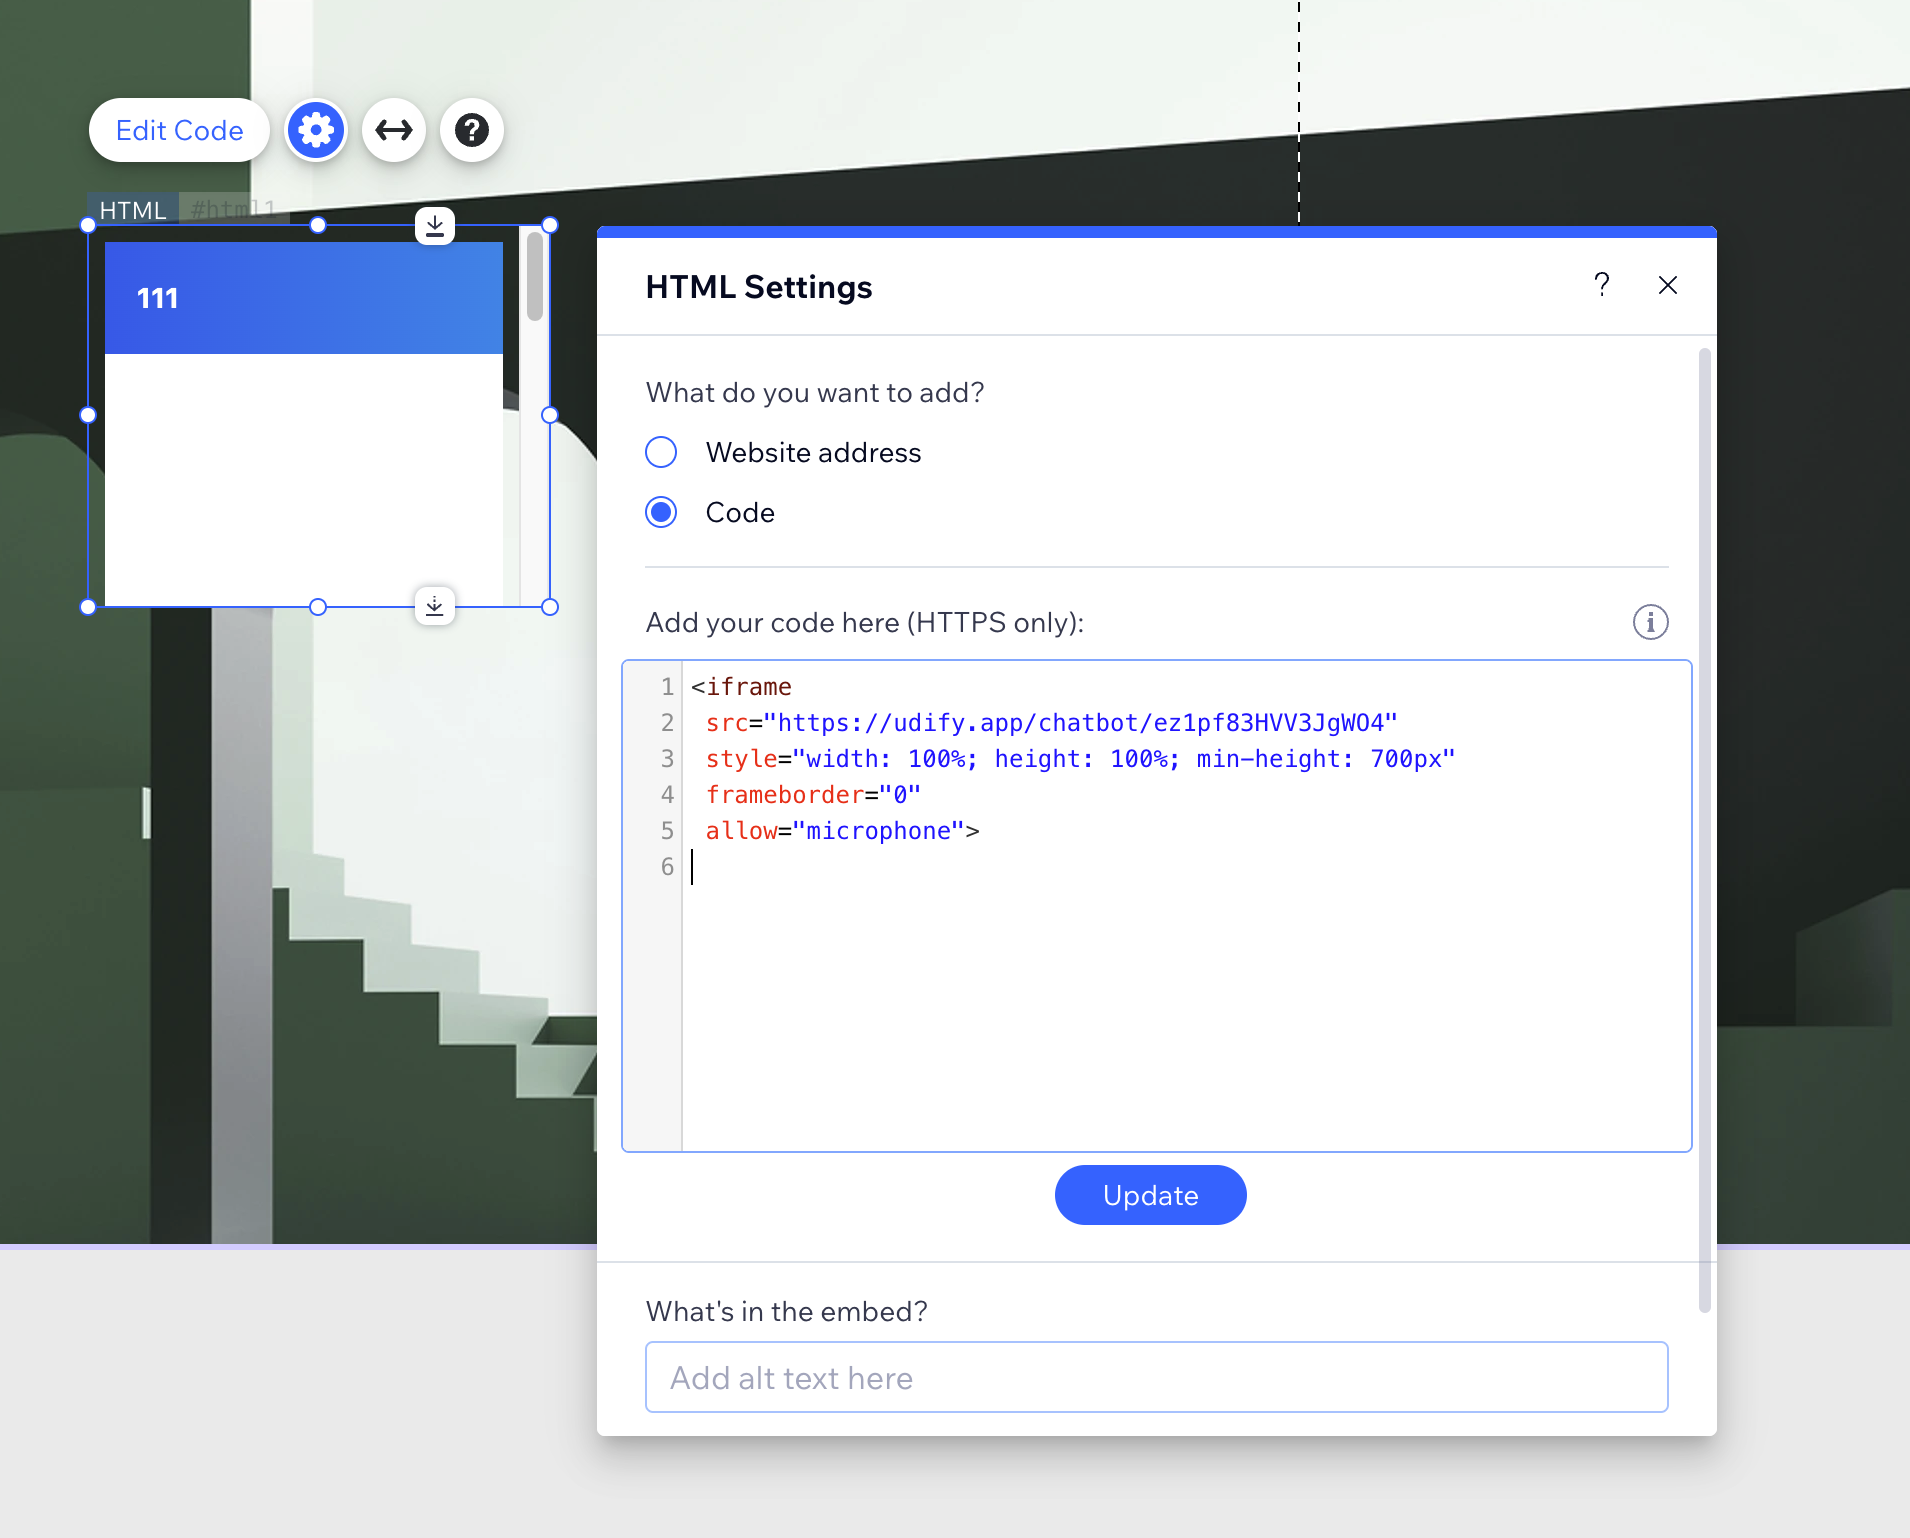
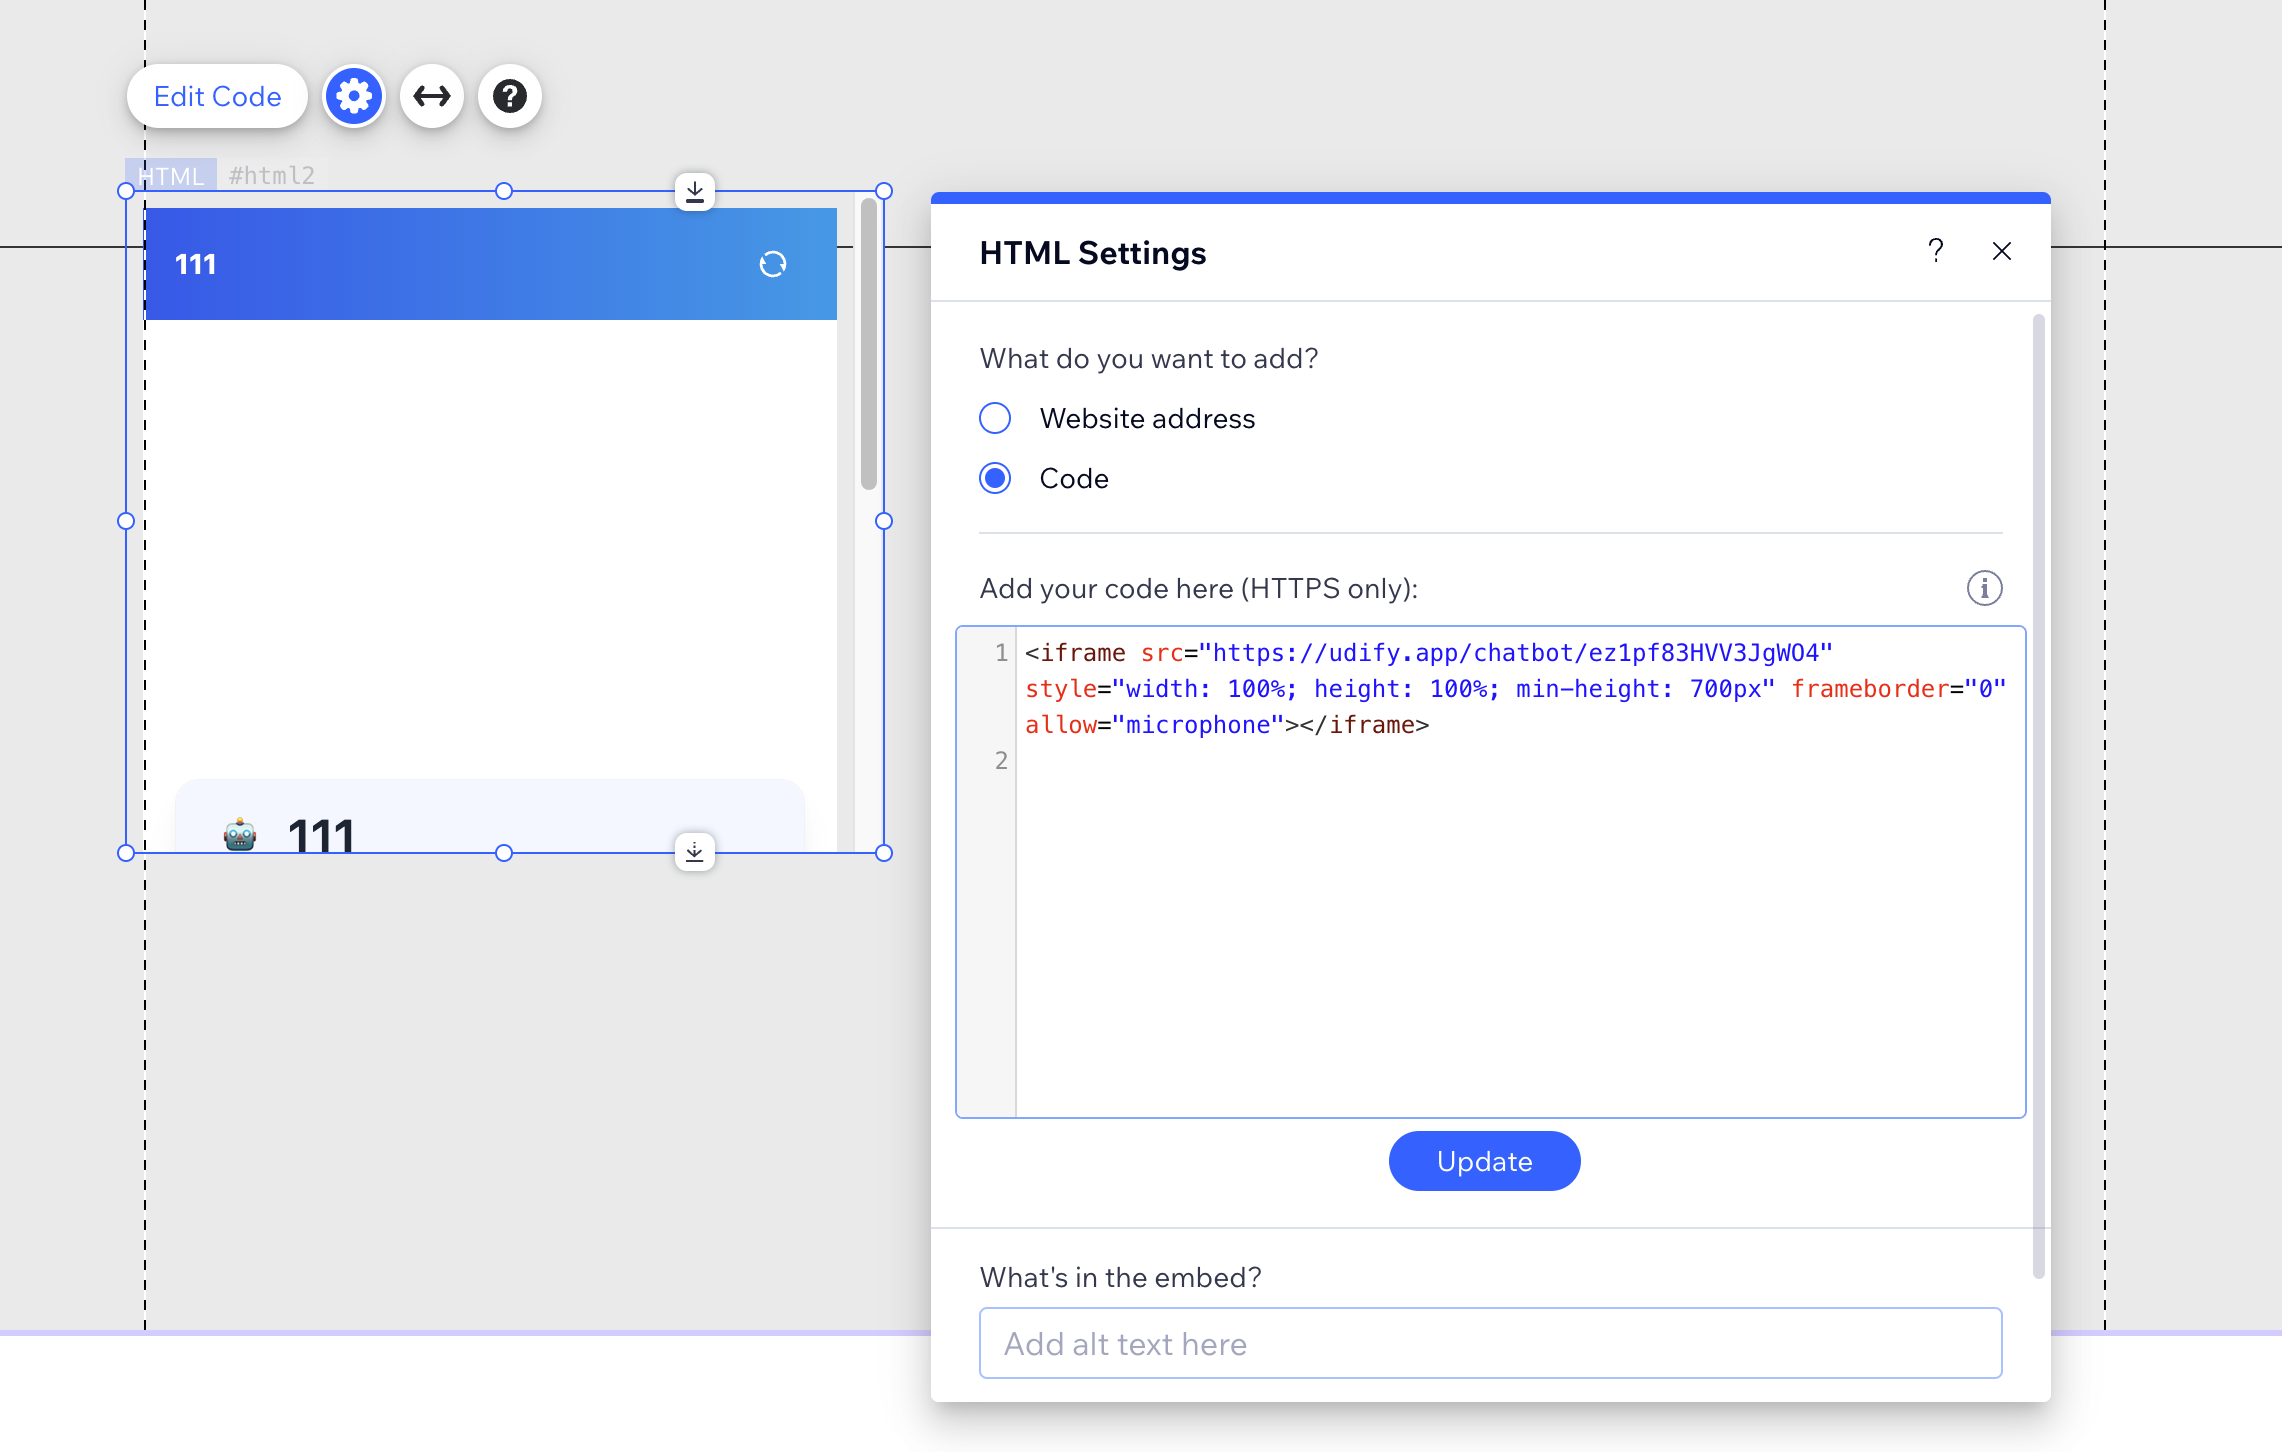
Docs: update how to integrate dify chatbot into wix

diff --git a/en/learn-more/use-cases/how-to-integrate-dify-chatbot-to-your-wix-website.md b/en/learn-more/use-cases/how-to-integrate-dify-chatbot-to-your-wix-website.md
@@ -36,7 +36,7 @@ Assuming you've already created a [Dify AI application](https://docs.dify.ai/v/z
 Here's an example of an iFrame code snippet for embedding a Dify Chatbot:
 
 ```bash
-<iframe src="https://udify.app/chatbot/1yS3gohroW1sKyLc" style="width: 100%; height: 100%; min-height: 700px" frameborder="0" allow="microphone"></iframe>
+<iframe src="https://udify.app/chatbot/ez1pf83HVV3JgWO4" style="width: 100%; height: 100%; min-height: 700px" frameborder="0" allow="microphone"></iframe>
 ```
 
 ![Insert Dify iFrame Code](../../../img/best-practice-insert-dify-iframe-code.png)
@@ -52,13 +52,13 @@ You can adjust the Dify Chatbot's button style, position, and other settings.
 Modify the `style` attribute in the iFrame code to customize the Chatbot button's appearance. For example:
 
 ```bash
-<iframe src="https://udify.app/chatbot/1yS3gohroW1sKyLc" style="width: 100%; height: 100%; min-height: 700px" frameborder="0" allow="microphone"></iframe>
+<iframe src="https://udify.app/chatbot/ez1pf83HVV3JgWO4" style="width: 100%; height: 100%; min-height: 700px" frameborder="0" allow="microphone"></iframe>
 
 # Add a 2-pixel wide solid black border: border: 2px solid #000
 
 →
 
-<iframe src="https://udify.app/chatbot/1yS3gohroW1sKyLc" style="width: 80%; height: 80%; min-height: 500px; border: 2px solid #000;" frameborder="0" allow="microphone"></iframe>
+<iframe src="https://udify.app/chatbot/ez1pf83HVV3JgWO4" style="width: 80%; height: 80%; min-height: 500px; border: 2px solid #000;" frameborder="0" allow="microphone"></iframe>
 ```
 
 This code adds a 2-pixel wide solid black border to the chatbot interface.
@@ -68,13 +68,13 @@ This code adds a 2-pixel wide solid black border to the chatbot interface.
 Adjust the button's position by modifying the `position` value in the `style` attribute. For example:
 
 ```bash
-<iframe src="https://udify.app/chatbot/1yS3gohroW1sKyLc" style="width: 100%; height: 100%; min-height: 700px" frameborder="0" allow="microphone"></iframe>
+<iframe src="https://udify.app/chatbot/ez1pf83HVV3JgWO4" style="width: 100%; height: 100%; min-height: 700px" frameborder="0" allow="microphone"></iframe>
 
 # Fix the Chatbot to the bottom right corner of the webpage, 20 pixels from the bottom and right edges.
 
 →
 
-<iframe src="https://udify.app/chatbot/1yS3gohroW1sKyLc" style="width: 100%; height: 100%; min-height: 700px; position: fixed; bottom: 20px; right: 20px;" frameborder="0" allow="microphone"></iframe>
+<iframe src="https://udify.app/chatbot/ez1pf83HVV3JgWO4" style="width: 100%; height: 100%; min-height: 700px; position: fixed; bottom: 20px; right: 20px;" frameborder="0" allow="microphone"></iframe>
 ```
 
 This code fixes the Chatbot to the bottom right corner of the webpage, 20 pixels from the bottom and right edges.
